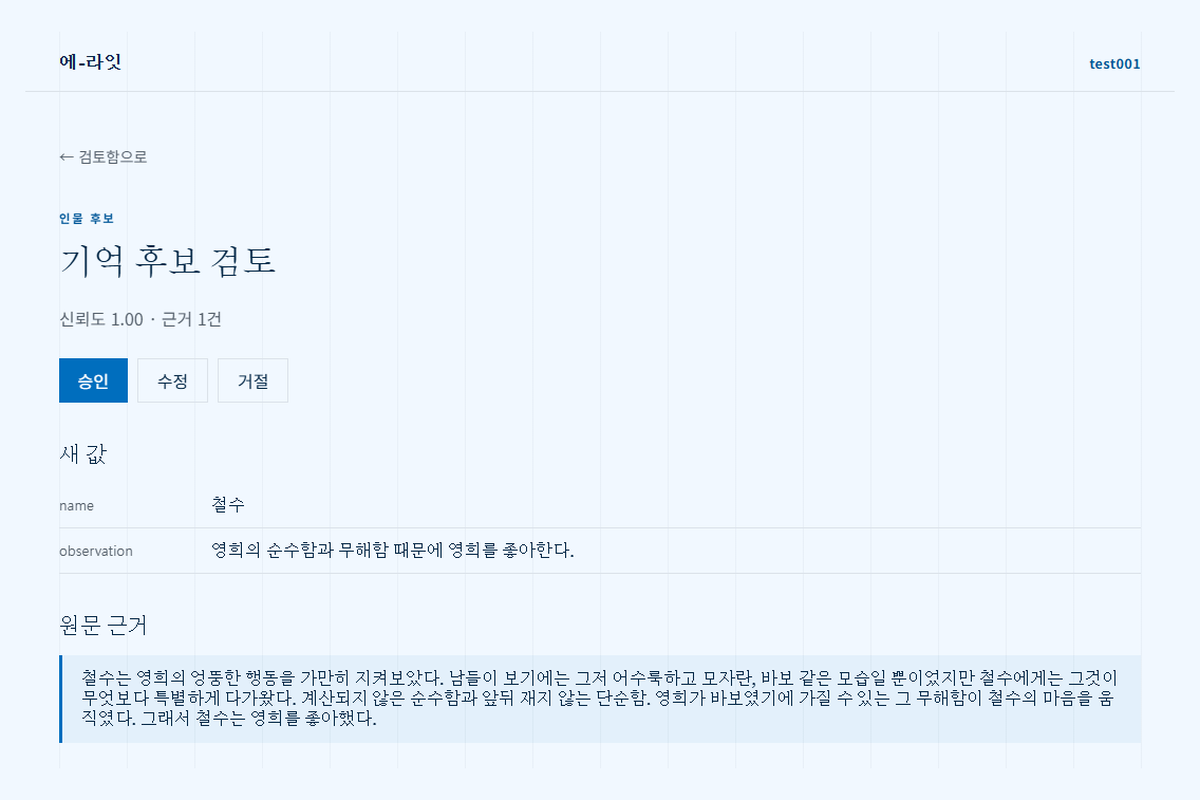
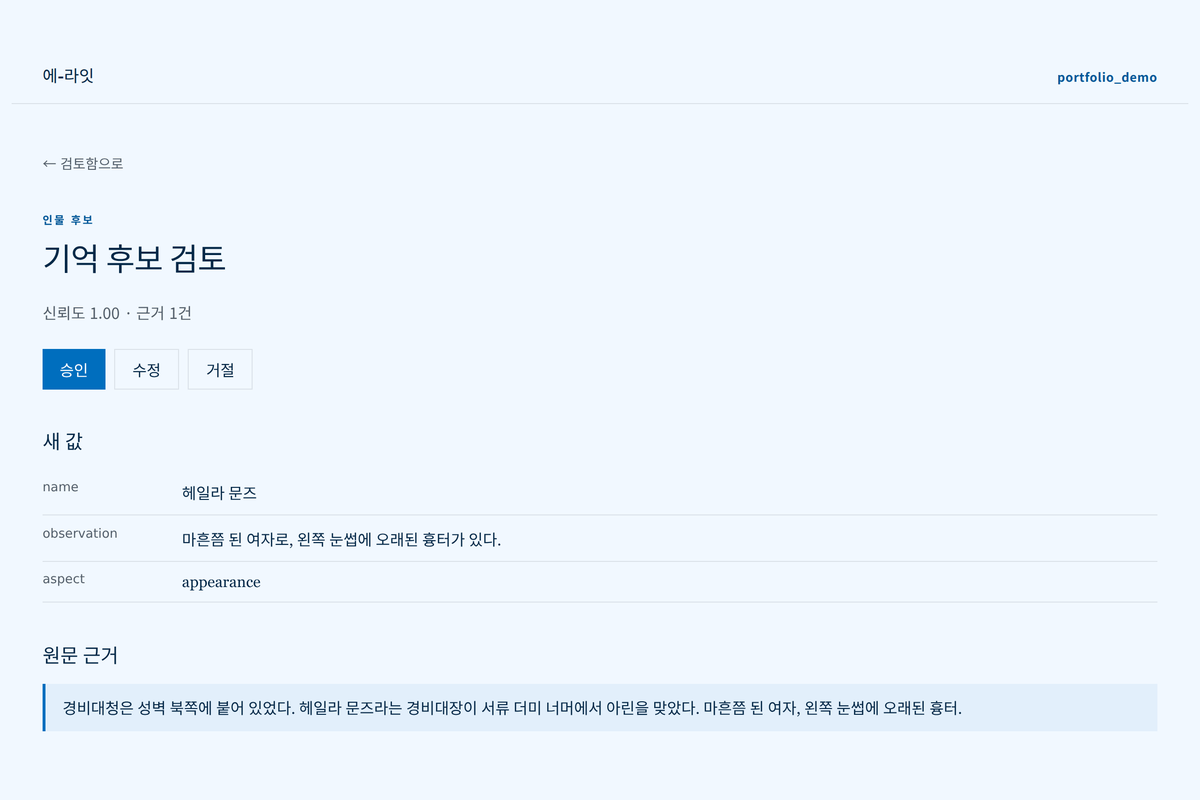
Refresh the AI Writer case: current screenshots, live GIFs, and re-counted numbers
Screenshots were captured from a 3-week-old frontend build and their Korean text
rendered as tofu boxes. Both are fixed at the source: the stack was rebuilt from
current main and the capture host got the fonts the app's system stack declares.

- assets/aiw-editor.png, assets/aiw-candidate-review.png — re-shot on the current
  UI with real demo data ("검은 태양의 연대기"), replacing the 2026-09-01 stills
  that still showed placeholder text.
- assets/aiw-generation.gif, assets/aiw-review.gif — new. Generation is recorded
  on the async path (202 + job, worker outside the request timeout); review shows
  the source quote being checked before approval.
- case-studies.html: a second grid2 row carries the two GIFs, bilingual captions.
  (Rebased onto the portfolio redesign, which moved the case detail out of
  index.html; the change was ported there.)

Numbers re-counted from the repo on 2026-09-13 and updated everywhere they appear
(case-studies.html brief, case scan, decisions/verification sections, README.md,
README.ko.md, PROJECTS.md, PROJECTS.ko.md):

  decision briefs      96    -> 118
  verification records 269   -> 315   (61 dated days -> 73)
  passing tests        2,316 -> 3,075 (subtests 2,654 -> 4,239)
  verdict split        185/80/4 -> 216/94/5   ("30% not clean" still holds)
  LLM call sites       8     -> 9     (identity_judge, added 2026-09-03)
  contract version     v1.8.14 -> v1.8.68

Bilingual balance after port: index 34/34, case-studies 234/234, experience 97/97.

diff --git a/docs/case-studies.html b/docs/case-studies.html
@@ -135,7 +135,7 @@
 </span>
 </div>
 <p class="tagline"><span class="en">A writing workspace that keeps long manuscripts and their memory consistent.</span><span class="ko">장편 원고와 설정의 일관성을 유지하는 글쓰기 워크스페이스.</span></p>
-<dl class="project-brief"><div><dt><span class="en">Decision</span><span class="ko">핵심 판단</span></dt><dd><span class="en">AI output stays a candidate until verification and human review. Accepted memory is append-only and linked to the source.</span><span class="ko">AI 출력은 검증과 사람의 검토 전까지 후보로 둡니다. 채택된 기억은 원문 출처와 함께 append-only로 쌓습니다.</span></dd></div><div><dt><span class="en">Result</span><span class="ko">확인된 결과</span></dt><dd><span class="en">End-to-end operation via Docker Compose; 96 decision briefs, 269 verification records, and 2,316 passing tests in the documented snapshot.</span><span class="ko">Docker Compose로 관통 동작합니다. 기록 시점 기준 결정 브리프 96개, 검증 기록 269건, 통과 테스트 2,316건입니다.</span></dd></div><div><dt><span class="en">Limit</span><span class="ko">한계</span></dt><dd><span class="en">System evidence does not establish writing quality. Dogfooding was declared started on 2026-08-23; this is not a live multi-tenant service.</span><span class="ko">시스템 지표가 작품 품질을 증명하지는 않습니다. 2026-08-23 dogfood 착수 선언 단계이며, 실사용자를 받는 다중 테넌트 서비스가 아닙니다.</span></dd></div></dl><div class="case-links"><a class="repo" href="https://github.com/entangelk/ai_writte_system" rel="noopener" target="_blank">
+<dl class="project-brief"><div><dt><span class="en">Decision</span><span class="ko">핵심 판단</span></dt><dd><span class="en">AI output stays a candidate until verification and human review. Accepted memory is append-only and linked to the source.</span><span class="ko">AI 출력은 검증과 사람의 검토 전까지 후보로 둡니다. 채택된 기억은 원문 출처와 함께 append-only로 쌓습니다.</span></dd></div><div><dt><span class="en">Result</span><span class="ko">확인된 결과</span></dt><dd><span class="en">End-to-end operation via Docker Compose; 118 decision briefs, 315 verification records, and 3,075 passing tests in the documented snapshot.</span><span class="ko">Docker Compose로 관통 동작합니다. 기록 시점 기준 결정 브리프 118개, 검증 기록 315건, 통과 테스트 3,075건입니다.</span></dd></div><div><dt><span class="en">Limit</span><span class="ko">한계</span></dt><dd><span class="en">System evidence does not establish writing quality. Dogfooding was declared started on 2026-08-23; this is not a live multi-tenant service.</span><span class="ko">시스템 지표가 작품 품질을 증명하지는 않습니다. 2026-08-23 dogfood 착수 선언 단계이며, 실사용자를 받는 다중 테넌트 서비스가 아닙니다.</span></dd></div></dl><div class="case-links"><a class="repo" href="https://github.com/entangelk/ai_writte_system" rel="noopener" target="_blank">
         GitHub repo
        </a></div><details class="evidence-details"><summary><span class="en">7 decisions, ownership &amp; evidence</span><span class="ko">설계 판단 7개 · 직접 맡은 일 · 검증 기록</span><span aria-hidden="true" class="detail-symbol">+</span></summary><div class="evidence-body"><div class="case-links">
 <a class="repo" href="https://github.com/entangelk/ai_writte_system" rel="noopener" target="_blank">
@@ -175,14 +175,14 @@
           <code>
            docker compose up
           </code>
-          , with the canonical record, the Gate, and human review in the path. 96 decision briefs · 269 verification records · 2,316 passing tests.
+          , with the canonical record, the Gate, and human review in the path. 118 decision briefs · 315 verification records · 3,075 passing tests.
          </span>
 <span class="ko">
           정본·Gate·사람 검토가 경로에 들어간 글쓰기 운영체제가
           <code>
            docker compose up
           </code>
-          하나로 관통 동작합니다. 결정 브리프 96 · 검증 기록 269 · 통과 테스트 2,316.
+          하나로 관통 동작합니다. 결정 브리프 118 · 검증 기록 315 · 통과 테스트 3,075.
          </span>
 </div>
 </div>
@@ -243,18 +243,49 @@
          </span>
 </p>
 </div>
+</div><div class="grid2">
+<div>
+<img alt="AI Writer System — a continuation being generated in the background" class="card-viz" loading="lazy" src="assets/aiw-generation.gif"/>
+<p class="viz-cap">
+<span class="en">
+          Generation, recorded live: a long request becomes
+          <code>
+           202 + job
+          </code>
+          and a worker runs it outside the request timeout — the candidate lands in the pad, not in the manuscript.
+         </span>
+<span class="ko">
+          이어쓰기 생성 실제 녹화 — 긴 요청은
+          <code>
+           202 + 잡
+          </code>
+          이 되어 워커가 요청 타임아웃 밖에서 돌립니다. 후보는 원고가 아니라 패드에 도착합니다.
+         </span>
+</p>
+</div>
+<div>
+<img alt="AI Writer System — approving a memory candidate after checking its evidence" class="card-viz" loading="lazy" src="assets/aiw-review.gif"/>
+<p class="viz-cap">
+<span class="en">
+          Review, recorded live: open the candidate, read the source quote it is anchored to, then approve — the human step that stands between an AI claim and memory.
+         </span>
+<span class="ko">
+          기억 후보 검토 실제 녹화 — 후보를 열어 그것이 걸려 있는 원문 근거를 확인하고 승인합니다. AI의 주장과 기억 사이에 서 있는 사람의 단계입니다.
+         </span>
+</p>
+</div>
 </div><p class="bridge">
 <span class="en">
 <b>
          Every LLM call site is instrumented, and failed calls are counted too.
         </b>
-        All eight call sites write a standard audit record, aggregated into a KPI view (per project, plus a global admin view). Counting only the successful calls would pin the success rate at 100% forever — an observability dashboard that can never deliver bad news is decoration, not instrumentation.
+        All nine call sites write a standard audit record, aggregated into a KPI view (per project, plus a global admin view). Counting only the successful calls would pin the success rate at 100% forever — an observability dashboard that can never deliver bad news is decoration, not instrumentation.
        </span>
 <span class="ko">
 <b>
          LLM 호출부 전부가 계측되고, 실패한 호출도 셉니다.
         </b>
-        8개 호출부 모두가 표준 감사 레코드를 남기고, 그것을 집계한 KPI를 화면으로 봅니다(프로젝트별 + 전역 관리자). 성공한 호출만 세면 성공률은 영구히 100%가 됩니다 — 나쁜 소식을 절대 전할 수 없는 관측 대시보드는 계측이 아니라 장식입니다.
+        9개 호출부 모두가 표준 감사 레코드를 남기고, 그것을 집계한 KPI를 화면으로 봅니다(프로젝트별 + 전역 관리자). 성공한 호출만 세면 성공률은 영구히 100%가 됩니다 — 나쁜 소식을 절대 전할 수 없는 관측 대시보드는 계측이 아니라 장식입니다.
        </span>
 </p><div class="owned">
 <p class="owned-h">
@@ -274,7 +305,7 @@
           The canonical MongoDB record, the versioned system contract, and the candidate → Gate → human review → append-only memory pipeline — designed and specified by me before any code existed. The contract is versioned (
           <a href="https://github.com/entangelk/ai_writte_system/blob/main/docs/system-contract-sot.md" rel="noopener" target="_blank">
 <code>
-            v1.8.14
+            v1.8.68
            </code>
 </a>
           ) with every revision and its reason retained.
@@ -286,7 +317,7 @@
           MongoDB 정본 레코드, 버전 관리되는 시스템 계약, candidate → Gate → 사람 검토 → append-only 기억 파이프라인 — 코드가 나오기 전에 제가 설계하고 명세했습니다. 계약은 버전 관리되며(
           <a href="https://github.com/entangelk/ai_writte_system/blob/main/docs/system-contract-sot.md" rel="noopener" target="_blank">
 <code>
-            v1.8.14
+            v1.8.68
            </code>
 </a>
           ) 모든 개정과 그 이유를 남깁니다.
@@ -621,7 +652,7 @@
           until the owner decides; guessing is not allowed.
           <a href="https://github.com/entangelk/ai_writte_system/tree/main/docs/plans" rel="noopener" target="_blank">
 <b>
-            96 decision briefs
+            118 decision briefs
            </b>
 </a>
           exist so far — the trail is public. The cost is real — work halts — and that is the point: a silently chosen default is a decision nobody remembers making, and those are the ones that cannot be undone later.
@@ -638,7 +669,7 @@
           . 추측 구현은 금지입니다. 현재까지
           <a href="https://github.com/entangelk/ai_writte_system/tree/main/docs/plans" rel="noopener" target="_blank">
 <b>
-            결정 브리프 96개
+            결정 브리프 118개
            </b>
 </a>
           — 기록은 공개돼 있습니다. 작업이 멈추는 비용은 실제로 발생하고, 그게 요점입니다 — 조용히 골라진 기본값은 아무도 내린 기억이 없는 결정이고, 나중에 되돌릴 수 없는 것은 바로 그런 것들입니다.
@@ -678,18 +709,18 @@
           — reverting the fix to confirm the regression guard fails again. Guards must fail in both directions: reintroducing the original bug, and over-correcting into a valid case.
           <a href="https://github.com/entangelk/ai_writte_system/tree/main/docs/verifications" rel="noopener" target="_blank">
 <b>
-            269 independent verification records over 61 dated days
+            315 independent verification records over 73 dated days
            </b>
 </a>
           , sitting on a suite of
           <a href="https://github.com/entangelk/ai_writte_system/tree/main/tests" rel="noopener" target="_blank">
 <b>
-            2,316 passing tests (2,654 subtests)
+            3,075 passing tests (4,239 subtests)
            </b>
 </a>
           . The verdict split is
           <b>
-           185 pass · 80 conditional · 4 outright fail
+           216 pass · 94 conditional · 5 outright fail
           </b>
           —
           <b>
@@ -729,18 +760,18 @@
           으로 반증을 시도합니다 — 고친 것을 되돌려 회귀 가드가 다시 실패하는지 확인합니다. 가드는 양방향이어야 합니다: 원래 결함을 재현해도 실패하고, 과잉 교정으로 정상 경로를 깨도 실패해야 합니다.
           <a href="https://github.com/entangelk/ai_writte_system/tree/main/docs/verifications" rel="noopener" target="_blank">
 <b>
-            61일치로 쌓인 독립 검증 기록 269건
+            73일치로 쌓인 독립 검증 기록 315건
            </b>
 </a>
           , 그 아래
           <a href="https://github.com/entangelk/ai_writte_system/tree/main/tests" rel="noopener" target="_blank">
 <b>
-            통과 테스트 2,316건(서브테스트 2,654)
+            통과 테스트 3,075건(서브테스트 4,239)
            </b>
 </a>
           . 판정 분포는
           <b>
-           합격 185 · 조건부 합격 80 · 불합격 4
+           합격 216 · 조건부 합격 94 · 불합격 5
           </b>
           로,
           <b>

diff --git a/PROJECTS.ko.md b/PROJECTS.ko.md
@@ -82,8 +82,8 @@
 * **AI 출력은 정본이 아니다.** 생성·분석 결과는 전부 `candidate`로 남고, Gate 판정과 사람의 검토를 거쳐야 기억이 됩니다. "AI가 쓴 것이 곧 사실"이 되는 순간 기억 자체가 오염되고, 이후의 모든 검색이 그 오염을 물려받기 때문입니다. 기억은 **append-only**입니다 — 덮어쓰지 않고 버전을 쌓아, 잘못된 갱신이 과거를 지우지 못하게 합니다. 모든 주장에는 원문 위치로 되짚는 `source_ref`가 붙어, 작가가 AI의 판단을 출처까지 검증할 수 있습니다.
 * **벡터 저장소는 진실이 아니라 캐시.** 정본은 MongoDB가 들고, ChromaDB(BGE-m3 벡터)와 Elasticsearch(nori 어휘)는 async outbox 워커로 유지되는 **파생** 하이브리드 색인입니다. 최종 근거는 색인을 믿지 않고 항상 정본에서 재조회합니다 — **Agent Memory System**(아래)에서 처음 만든 진실/캐시 분리를 제품 규모로 다시 적용한 것입니다.
 * **교체할 자리는 교체 가능하게, 다만 재기 전에는 바꾸지 않는다.** 임베딩과 리랭킹은 provider-neutral seam 뒤에 있습니다. 엔드포인트가 없으면 임베딩은 fake로 내려가지만 리랭킹은 `None`으로 — 아예 재정렬하지 않습니다. 리랭킹에는 "가짜 재정렬"이라는 쓸모 있는 대체물이 없고, **무작위로 섞는 것은 no-op보다 나쁘기** 때문입니다. 브리프의 문언은 "generic OpenAI-호환 어댑터"였지만 **OpenAI에는 rerank 엔드포인트가 없습니다.** 글자를 그대로 따랐으면 **존재하지 않는 계약**을 구현할 뻔했고, 그래서 이 분야가 실제로 공유하는 형태(`POST /v1/rerank` — Cohere · Jina · Voyage · TEI)를 구현하고 그 이탈을 브리프에 적었습니다. 조립은 가드로 잠급니다 — **이 실패가 조용하기** 때문입니다. 리랭킹이 조용히 빠져도 비는 것이 없고 순위만 예전으로 돌아갑니다. 그리고 교체하기 **전에** 평가 하네스(`recall@k` · `MRR` · `nDCG@k`)를 먼저 썼습니다. 정답은 일부러 채우지 않았습니다 — 하네스가 있다는 사실은 "평가했다"가 아닙니다.
-* **문서는 코드의 부산물이 아니라 선행 조건.** 조용히 고르면 나중에 되돌릴 수 없는 선택 — 아키텍처·계약 리터럴·정책 — 은 코드를 쓰기 전에 선택지 표를 갖춘 **결정 브리프**로 올리고, 오너가 결정할 때까지 구현을 멈춥니다. 현재까지 **결정 브리프 96개**. 구현 뒤에는 **다른 세션**이 **뮤테이션**으로 반증을 시도합니다 — 고친 것을 되돌려 회귀 가드가 다시 실패하는지 확인하는 방식입니다. 가드는 양방향이어야 합니다: 원래 결함을 재현해도 실패하고, 과잉 교정으로 정상 경로를 깨도 실패해야 합니다.
-* **실패가 허용되는 검증.** **61일치로 쌓인 독립 검증 기록 269건**, 그 아래 **통과 테스트 2,316건(서브테스트 2,654)**. 판정 분포는 **합격 185 · 조건부 합격 80 · 불합격 4**로 **10건 중 3건은 깨끗하게 돌아오지 않습니다**. **이 비율이 절차가 형식적 통과가 아니라는 증거**이며, 각 지적은 후속 커밋에서 닫힙니다. 대표적으로 잡힌 것 하나: "시행 완료"로 기록된 항목이 **compose 파일 수준에서는 참이고 런타임에서는 거짓**이었습니다 — 이미 만들어진 컨테이너가 옛 포트 매핑을 그대로 들고 있었기 때문이고, 이를 잡은 것은 테스트 스위트가 아니라 `docker ps`였습니다.
+* **문서는 코드의 부산물이 아니라 선행 조건.** 조용히 고르면 나중에 되돌릴 수 없는 선택 — 아키텍처·계약 리터럴·정책 — 은 코드를 쓰기 전에 선택지 표를 갖춘 **결정 브리프**로 올리고, 오너가 결정할 때까지 구현을 멈춥니다. 현재까지 **결정 브리프 118개**. 구현 뒤에는 **다른 세션**이 **뮤테이션**으로 반증을 시도합니다 — 고친 것을 되돌려 회귀 가드가 다시 실패하는지 확인하는 방식입니다. 가드는 양방향이어야 합니다: 원래 결함을 재현해도 실패하고, 과잉 교정으로 정상 경로를 깨도 실패해야 합니다.
+* **실패가 허용되는 검증.** **73일치로 쌓인 독립 검증 기록 315건**, 그 아래 **통과 테스트 3,075건(서브테스트 4,239)**. 판정 분포는 **합격 216 · 조건부 합격 94 · 불합격 5**로 **10건 중 3건은 깨끗하게 돌아오지 않습니다**. **이 비율이 절차가 형식적 통과가 아니라는 증거**이며, 각 지적은 후속 커밋에서 닫힙니다. 대표적으로 잡힌 것 하나: "시행 완료"로 기록된 항목이 **compose 파일 수준에서는 참이고 런타임에서는 거짓**이었습니다 — 이미 만들어진 컨테이너가 옛 포트 매핑을 그대로 들고 있었기 때문이고, 이를 잡은 것은 테스트 스위트가 아니라 `docker ps`였습니다.
 * **범위의 정직한 경계.** 현재 단계는 **로컬 1인 운영**이고, 실사용 관찰(dogfood)은 **2026-08-23 착수 선언** 단계입니다 — 그래서 위의 숫자는 전부 *시스템* 지표이지 *작품* 지표가 아닙니다. 전체 스택이 `docker compose up` 하나로 관통 동작하며(FastAPI · React/TS · MongoDB · ChromaDB · Elasticsearch · 로컬 Gemma 4 12B endpoint), 다중 사용자 인증·프로젝트 소유권·요청 quota·관리자 표면까지 구현돼 있습니다. 아직 **아닌 것**: 실사용자를 받는 다중 테넌트 프로덕션 서비스. 원격 다중 호스트 배포는 유예 목록에 남아 있습니다.
 
 #### 🎯 자동화된 브랜드 로고 추출 파이프라인 (Test Lab)

diff --git a/PROJECTS.md b/PROJECTS.md
@@ -81,8 +81,8 @@ I care most about building practical solutions that reduce friction, work under 
 * **AI Output Is Not Canon.** Every generated or analyzed result lands as a `candidate` and becomes memory only after a Gate verdict and human review. The moment "whatever the AI wrote is true" is allowed, the memory itself is contaminated — and every later retrieval inherits that contamination. Memory is **append-only**: updates stack as versions rather than overwriting, so a bad revision cannot erase the past. Every claim carries a `source_ref` pointing back to the original text position, so the author can audit the AI's judgment down to where it came from.
 * **The Vector Store Is a Cache, Not the Truth.** MongoDB holds the canonical record; ChromaDB (BGE-m3 vector) and Elasticsearch (nori lexical) are derived hybrid retrieval indexes maintained through an async outbox worker. Final evidence is always reloaded from the canonical record rather than trusted from the index — the same truth-vs-cache split I first built in the **Agent Memory System** (below), applied here at product scale.
 * **Swappable Parts, Measured Before Swapping.** Embedding and reranking sit behind provider-neutral seams. With no endpoint configured, embedding falls back to a fake but reranking falls back to `None` — no reranking at all — because there is no useful stand-in for "fake reranking," and shuffling at random is worse than doing nothing. The brief specified "a generic OpenAI-compatible adapter," but **OpenAI has no rerank endpoint**; following the wording literally would have implemented a contract that does not exist, so I built the shape the field actually shares (`POST /v1/rerank` — Cohere, Jina, Voyage, TEI) and recorded the departure in the brief. The assembly is locked by a guard because **this failure is silent**: if reranking quietly falls out, nothing looks broken and the ranking simply reverts. An evaluation harness (`recall@k` · `MRR` · `nDCG@k`) was written **before** any swap, with gold labels deliberately unfilled — owning a harness is not the same as having evaluated anything.
-* **Documentation as a Precondition, Not a Byproduct.** Choices that cannot be quietly reversed later — architecture, contract literals, policy — are raised as a **decision brief** with an options table before any code is written, and implementation stops until the owner decides. **96 decision briefs** exist to date. After implementation, a *different* session attempts to falsify the work by **mutation**: reverting the fix to confirm the regression guard fails again. Guards must fail in both directions — reintroducing the original bug, and over-correcting into a valid case.
-* **Verification That Is Allowed to Fail.** **269 independent verification records over 61 dated days**, sitting on a suite of **2,316 passing tests (2,654 subtests)**. The verdict split is **185 pass · 80 conditional · 4 outright fail** — **30% do not come back clean**, and that rate **is the evidence the process is real** rather than ceremonial; each finding is closed in a follow-up commit. One representative catch: an enforcement recorded as "complete" was true at the compose-file level but **false at runtime**, because already-created containers still carried the old port mapping — caught by `docker ps`, not by the test suite.
+* **Documentation as a Precondition, Not a Byproduct.** Choices that cannot be quietly reversed later — architecture, contract literals, policy — are raised as a **decision brief** with an options table before any code is written, and implementation stops until the owner decides. **118 decision briefs** exist to date. After implementation, a *different* session attempts to falsify the work by **mutation**: reverting the fix to confirm the regression guard fails again. Guards must fail in both directions — reintroducing the original bug, and over-correcting into a valid case.
+* **Verification That Is Allowed to Fail.** **315 independent verification records over 73 dated days**, sitting on a suite of **3,075 passing tests (4,239 subtests)**. The verdict split is **216 pass · 94 conditional · 5 outright fail** — **30% do not come back clean**, and that rate **is the evidence the process is real** rather than ceremonial; each finding is closed in a follow-up commit. One representative catch: an enforcement recorded as "complete" was true at the compose-file level but **false at runtime**, because already-created containers still carried the old port mapping — caught by `docker ps`, not by the test suite.
 * **Honest Scope Boundary.** Currently at **local single-operator stage**; real-use observation (dogfood) was **declared started on 2026-08-23**, so every number above is a *system* metric, not a *product* metric. The stack runs end-to-end on one `docker compose up` (FastAPI · React/TS · MongoDB · ChromaDB · Elasticsearch · a local Gemma 4 12B endpoint), with multi-user auth, project ownership, per-request quota, and an admin surface implemented. What it is **not** yet: a multi-tenant production service with real users. Remote multi-host deployment stays on the deferred list.
 
 #### 🎯 Automated Brand Logo Extraction Pipeline (Test Lab)

diff --git a/README.ko.md b/README.ko.md
@@ -69,7 +69,7 @@ https://github.com/user-attachments/assets/9470b845-b59b-41fa-afc7-782c456412b8
 - 📖 **[AI Writer System](https://github.com/entangelk/ai_writte_system)** — *대표 개인 프로젝트*  
   장편 창작을 위한 **'글쓰기 운영체제'**입니다. 긴 원고에서 무너지는 것은 문장력이 아니라 **일관성**이고, 범용 챗봇은 대화창을 벗어나면 아무것도 기억하지 못하므로 이 문제를 구조적으로 풀 수 없습니다.  
   `Architecture:` MongoDB 정본(SoT) + 하이브리드 검색(ChromaDB/BGE-m3 벡터 · Elasticsearch nori 어휘) + Writing Gate. **AI 출력은 도착 즉시 정본이 되지 않습니다** — 전부 `candidate`로 남고, Gate 판정과 사람의 검토를 거쳐야 append-only 기억이 되며, 모든 주장에는 원문 위치로 되짚는 `source_ref`가 붙습니다. 임베딩과 리랭킹은 **provider-neutral seam** 뒤에 있고, 교체하기 **전에** 평가 하네스(`recall@k` · `MRR` · `nDCG@k`)를 먼저 썼습니다 — 정답은 일부러 채우지 않았습니다.  
-  `Process:` 구현보다 **먼저** 쓴 결정 브리프 96개 · 61일치로 쌓인 독립 검증 기록 269건 · 통과 테스트 2,316건(서브테스트 2,654) · 뮤테이션으로 확인하는 양방향 회귀 가드 · 버전 관리되는 정본 계약(`v1.8.14`, 변경이력 전량 보존). 판정 분포는 **합격 185 · 조건부 합격 80 · 불합격 4** — **10건 중 3건은 깨끗하게 돌아오지 않습니다**. 검증이 형식적 통과가 아니라는 증거입니다.  
+  `Process:` 구현보다 **먼저** 쓴 결정 브리프 118개 · 73일치로 쌓인 독립 검증 기록 315건 · 통과 테스트 3,075건(서브테스트 4,239) · 뮤테이션으로 확인하는 양방향 회귀 가드 · 버전 관리되는 정본 계약(`v1.8.68`, 변경이력 전량 보존). 판정 분포는 **합격 216 · 조건부 합격 94 · 불합격 5** — **10건 중 3건은 깨끗하게 돌아오지 않습니다**. 검증이 형식적 통과가 아니라는 증거입니다.  
   `Stack:` FastAPI · React/TS · 로컬 Gemma 4 12B endpoint — 전체 스택이 `docker compose up` 하나로 뜹니다.
 
 - 🧠 **[Agent Memory System](https://github.com/entangelk/agent-memory-system-public)**  

diff --git a/README.md b/README.md
@@ -66,7 +66,7 @@ When I encounter a business bottleneck, I combine existing models, APIs, and alg
 - 📖 **[AI Writer System](https://github.com/entangelk/ai_writte_system)** — *flagship personal project*  
   A "writing operating system" for long-form fiction. What breaks in a long manuscript is not prose quality, it is **consistency** — and a chatbot cannot fix that structurally, because it remembers nothing outside the conversation window.  
   `Architecture:` MongoDB as the canonical source of truth, hybrid retrieval (ChromaDB/BGE-m3 vector + Elasticsearch nori lexical), and a Writing Gate. **AI output is never canon on arrival** — it lands as a `candidate` and becomes append-only memory only after a gate verdict and human review, with a `source_ref` pointing back to the original text for every claim. Embedding and reranking sit behind **provider-neutral seams**, and an evaluation harness (`recall@k` · `MRR` · `nDCG@k`) was written *before* any swap — with the gold labels deliberately left unfilled.  
-  `Process:` 96 decision briefs written *before* implementation · 269 independent verification records over 61 dated days · a suite of 2,316 passing tests (2,654 subtests) · two-way regression guards checked by mutation · a versioned canonical contract (`v1.8.14`, full change history retained). The verdict split is **185 pass · 80 conditional · 4 outright fail** — **30% do not come back clean**, which is what tells you the review is not a formality.  
+  `Process:` 118 decision briefs written *before* implementation · 315 independent verification records over 73 dated days · a suite of 3,075 passing tests (4,239 subtests) · two-way regression guards checked by mutation · a versioned canonical contract (`v1.8.68`, full change history retained). The verdict split is **216 pass · 94 conditional · 5 outright fail** — **30% do not come back clean**, which is what tells you the review is not a formality.  
   `Stack:` FastAPI · React/TS · a local Gemma 4 12B endpoint — the whole stack on one `docker compose up`.
 
 - 🧠 **[Agent Memory System](https://github.com/entangelk/agent-memory-system-public)**  
